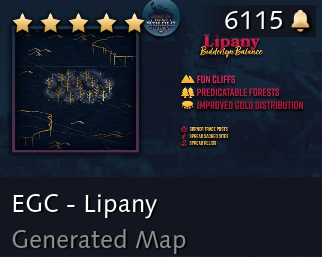
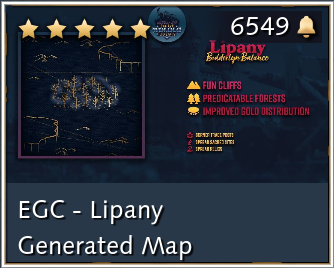
124124124

diff --git a/index.html b/index.html
@@ -368,8 +368,8 @@
                                 <div class="map-name">EGC - Gorge</div>
                             </div>
                             <div class="map-card">
-                                <img src="assets/mappool/archipelago-min.png" alt="EGC - Archipelago" class="map-image">
-                                <div class="map-name">EGC - Archipelago</div>
+                                <img src="assets/lipany.png" alt="EGC - Lipany" class="map-image">
+                                <div class="map-name">EGC - Lipany</div>
                             </div>
                             <div class="map-card">
                                 <img src="assets/mappool/frisian_marshes.png" alt="EGCMS - Frisian Marshes" class="map-image">
@@ -398,9 +398,9 @@
                     <div class="flex justify-between items-center mt-6">
                         <h3 class="subsection-title text-2xl mb-2">Map draft presets:</h3>
                         <div class="flex justify-center gap-4">
-                            <a href="https://aoe2cm.net/preset/opFMV" class="btn-primary btn-color-1">BO3</a>
-                            <a href="https://aoe2cm.net/preset/bAgrn" class="btn-primary btn-color-2">BO5</a>
-                            <a href="https://aoe2cm.net/preset/huxrV" class="btn-primary btn-color-3">BO7</a>
+                            <a href="https://aoe2cm.net/preset/NTxKF" class="btn-primary btn-color-1">BO3</a>
+                            <a href="https://aoe2cm.net/preset/NTuGV" class="btn-primary btn-color-2">BO5</a>
+                            <a href="https://aoe2cm.net/preset/wjYSs" class="btn-primary btn-color-3">BO7</a>
                         </div>
                     </div>
                 </div>
@@ -413,8 +413,8 @@
                         <div class="flex justify-center gap-4">
                             <a href="https://aoe2cm.net/preset/eZCCh" class="btn-primary btn-color-4" style="padding: 0.5rem 1.5rem;">CIV PICKER</a>
                             <a href="https://aoe2cm.net/preset/uciHW" class="btn-primary btn-color-5">BO3</a>
-                            <a href="https://aoe2cm.net/preset/KSdbR" class="btn-primary btn-color-6">BO5</a>
-                            <a href="https://aoe2cm.net/preset/XhDxk" class="btn-primary btn-color-1">BO7</a>
+                            <a href="https://aoe2cm.net/preset/Okebh" class="btn-primary btn-color-6">BO5</a>
+                            <a href="https://aoe2cm.net/preset/AfohD" class="btn-primary btn-color-1">BO7</a>
                         </div>
                     </div>
                 </div>
@@ -525,7 +525,7 @@
                 <div id="game-restarts-card" class="content-box rounded-md">
                     <h2 class="section-header text-3xl mb-4">7.2 Game restarts</h2>
                     <div class="provision-item text-lg">A game may be restarted at any time by mutual agreement of the players, but only once per map.</div>
-                    <div class="provision-item text-lg">A game may be restarted once per map if a player experiences a technical issue within the first two minutes after start of the game (a screenshot must be sent to the tournament admin and opponent).</div>
+                    <div class="provision-item text-lg">A game may be restarted once per map if a player experiences a technical issue within the first two minutes after start of the game.</div>
                     <div class="provision-item text-lg">In all other cases, the decision to restart the game is made exclusively by tournament administrators.</div>
                 </div>
                 <div class="content-box rounded-md"><h2 class="section-header text-3xl mb-4">7.3 Game mods</h2><div class="provision-item text-lg">All participants must download, install and check the functionality of the following mods:
@@ -544,8 +544,8 @@
                             <div class="map-name mod-caption">EGC - Gorge</div>
                         </div>
                         <div class="map-card">
-                            <img src="assets/mappool/mod_arch.png" alt="EGC - Archipelago" class="mod-image-unified">
-                            <div class="map-name mod-caption">EGC - Archipelago</div>
+                            <img src="assets/mod_lipany.png" alt="EGC - Lipany" class="mod-image-unified">
+                            <div class="map-name mod-caption">EGC - Lipany</div>
                         </div>
                         <div class="map-card">
                             <img src="assets/mappool/mod_Frisian.png" alt="EGCMS - Frisian Marshes" class="mod-image-unified">
@@ -639,8 +639,8 @@
                   <div class="provision-item text-lg">Example:
                     <div class="discord-chat-box">
                         Tosic 1-3 Shtoprrrr<br>
-                        <a class="resource-link" href="https://aoe2cm.net/draft/LzEyh">https://aoe2cm.net/draft/LzEyh</a><br>
-                        <a class="resource-link" href="https://aoe2cm.net/draft/vUgMZ">https://aoe2cm.net/draft/vUgMZ</a><br>
+                        <a class="resource-link" href="https://aoe2cm.net/draft/pCbSz">https://aoe2cm.net/draft/pCbSz</a><br>
+                        <a class="resource-link" href="https://aoe2cm.net/draft/Xvzuu">https://aoe2cm.net/draft/Xvzuu</a><br>
                     </div>
                   </div>
                 </div>
@@ -726,10 +726,13 @@
             <div class="provision-item text-lg mb-4">Casters wishing to cast the event must:</div>
             <div class="sub-item text-lg ml-4">display the Epohers World Cup logo,</div>
             <div class="sub-item text-lg ml-4">include "Epohers World Cup" in the stream title.</div>
-            <div class="provision-item text-lg mb-2">Players wishing to cast their POV must set stream delay according to lobby settings (5 min).</div>
-            <div class="sub-item text-lg ml-4">Streaming POV is allowed without delay, including lobby settings, if the opponent in the current match does not object (both players must write in <span class="highlight">#players-only</span> that the game will be hosted without delay).</div>
             <div class="provision-item text-lg mb-4">Free to use tournament assets - <a href="https://drive.google.com/drive/folders/1tx0dXjd95qNlSjHHehrcJvh3mDKQl4S_?usp=sharing" class="btn-primary btn-color-2" style="margin-left: 10px; font-size: 1.5rem; padding: 0.2rem 1rem;">Google drive</a></div>
             <div class="provision-item text-lg mb-4">Organizers have the right to involve players in creating media content (photo, video, interview, etc.).</div>
+          </div>
+          <div class="content-box rounded-md">
+            <h2 class="section-header text-3xl mb-8">11.2 Streaming POV</h2>
+            <div class="provision-item text-lg mb-4">Players wishing to cast their POV must set stream delay according to lobby settings (5 min).</div>
+            <div class="provision-item text-lg mb-4">Streaming POV is allowed without delay, including lobby settings, if the opponent in the current match does not object (both players must write in <span class="highlight">#players-only</span> that the game will be hosted without delay).</div>
           </div>
             <div class="collage-container">
                 <img src="spring_assets/Logo_Spring4_small.png" class="collage-image">

diff --git a/style.css b/style.css
@@ -367,34 +367,34 @@
     .game-rules-slide .provision-item {
         font-size: 1.75rem !important;
     }
-    .collage-container {
+.collage-container {
         position: relative;
         width: 100%;
-        height: 400px; /* Adjust as needed */
-        margin-top: 2rem;
+        height: 280px;
+        margin-top: 1rem;
     }
     .collage-image {
         position: absolute;
-        max-width: 150px; /* Adjust as needed */
+        max-width: 120px;
     }
-    .collage-image:nth-child(1) { top: 10%; left: 15%; transform: rotate(-15deg); width: 250px; }
-    .collage-image:nth-child(2) { top: 50%; left: 5%; transform: rotate(5deg); }
-    .collage-image:nth-child(3) { top: 15%; left: 70%; transform: rotate(20deg); }
-    .collage-image:nth-child(4) { top: 60%; left: 80%; transform: rotate(-5deg); }
-    .collage-image:nth-child(5) { top: 70%; left: 20%; transform: rotate(10deg); }
-    .collage-image:nth-child(6) { top: 5%; left: 40%; transform: rotate(-10deg); }
-    .collage-image:nth-child(7) { top: 55%; left: 50%; transform: rotate(15deg); }
-    .collage-image:nth-child(8) { top: 20%; left: 5%; transform: rotate(-20deg); }
-    .collage-image:nth-child(9) { top: 75%; left: 65%; transform: rotate(8deg); }
-    .collage-image:nth-child(10) { top: 30%; left: 85%; transform: rotate(-12deg); }
-    .collage-image:nth-child(11) { top: 45%; left: 30%; transform: rotate(3deg); }
-    .collage-image:nth-child(12) { top: 80%; left: 40%; transform: rotate(-8deg); }
-    .collage-image:nth-child(13) { top: 25%; left: 30%; transform: rotate(12deg); }
-    .collage-image:nth-child(14) { top: 60%; left: 5%; transform: rotate(-15deg); }
-    .collage-image:nth-child(15) { top: 10%; left: 80%; transform: rotate(10deg); }
-    .collage-image:nth-child(16) { top: 85%; left: 10%; transform: rotate(5deg); }
-    .collage-image:nth-child(17) { top: 40%; left: 60%; transform: rotate(-3deg); width: 200px;}
-    .collage-image:nth-child(18) { top: 70%; left: 90%; transform: rotate(18deg); }
+    .collage-image:nth-child(1) { top: 8%; left: 14%; transform: rotate(-15deg); width: 190px; }
+    .collage-image:nth-child(2) { top: 48%; left: 4%; transform: rotate(5deg); }
+    .collage-image:nth-child(3) { top: 12%; left: 69%; transform: rotate(20deg); }
+    .collage-image:nth-child(4) { top: 56%; left: 79%; transform: rotate(-5deg); }
+    .collage-image:nth-child(5) { top: 68%; left: 18%; transform: rotate(10deg); }
+    .collage-image:nth-child(6) { top: 4%; left: 39%; transform: rotate(-10deg); }
+    .collage-image:nth-child(7) { top: 50%; left: 49%; transform: rotate(15deg); }
+    .collage-image:nth-child(8) { top: 18%; left: 4%; transform: rotate(-20deg); }
+    .collage-image:nth-child(9) { top: 70%; left: 63%; transform: rotate(8deg); }
+    .collage-image:nth-child(10) { top: 28%; left: 84%; transform: rotate(-12deg); }
+    .collage-image:nth-child(11) { top: 42%; left: 29%; transform: rotate(3deg); }
+    .collage-image:nth-child(12) { top: 74%; left: 39%; transform: rotate(-8deg); }
+    .collage-image:nth-child(13) { top: 23%; left: 28%; transform: rotate(12deg); }
+    .collage-image:nth-child(14) { top: 56%; left: 6%; transform: rotate(-15deg); }
+    .collage-image:nth-child(15) { top: 8%; left: 79%; transform: rotate(10deg); }
+    .collage-image:nth-child(16) { top: 78%; left: 10%; transform: rotate(5deg); }
+    .collage-image:nth-child(17) { top: 36%; left: 58%; transform: rotate(-3deg); width: 155px;}
+    .collage-image:nth-child(18) { top: 64%; left: 89%; transform: rotate(18deg); }
     .rule-icon {
       font-size: 2rem;
       line-height: 1;
